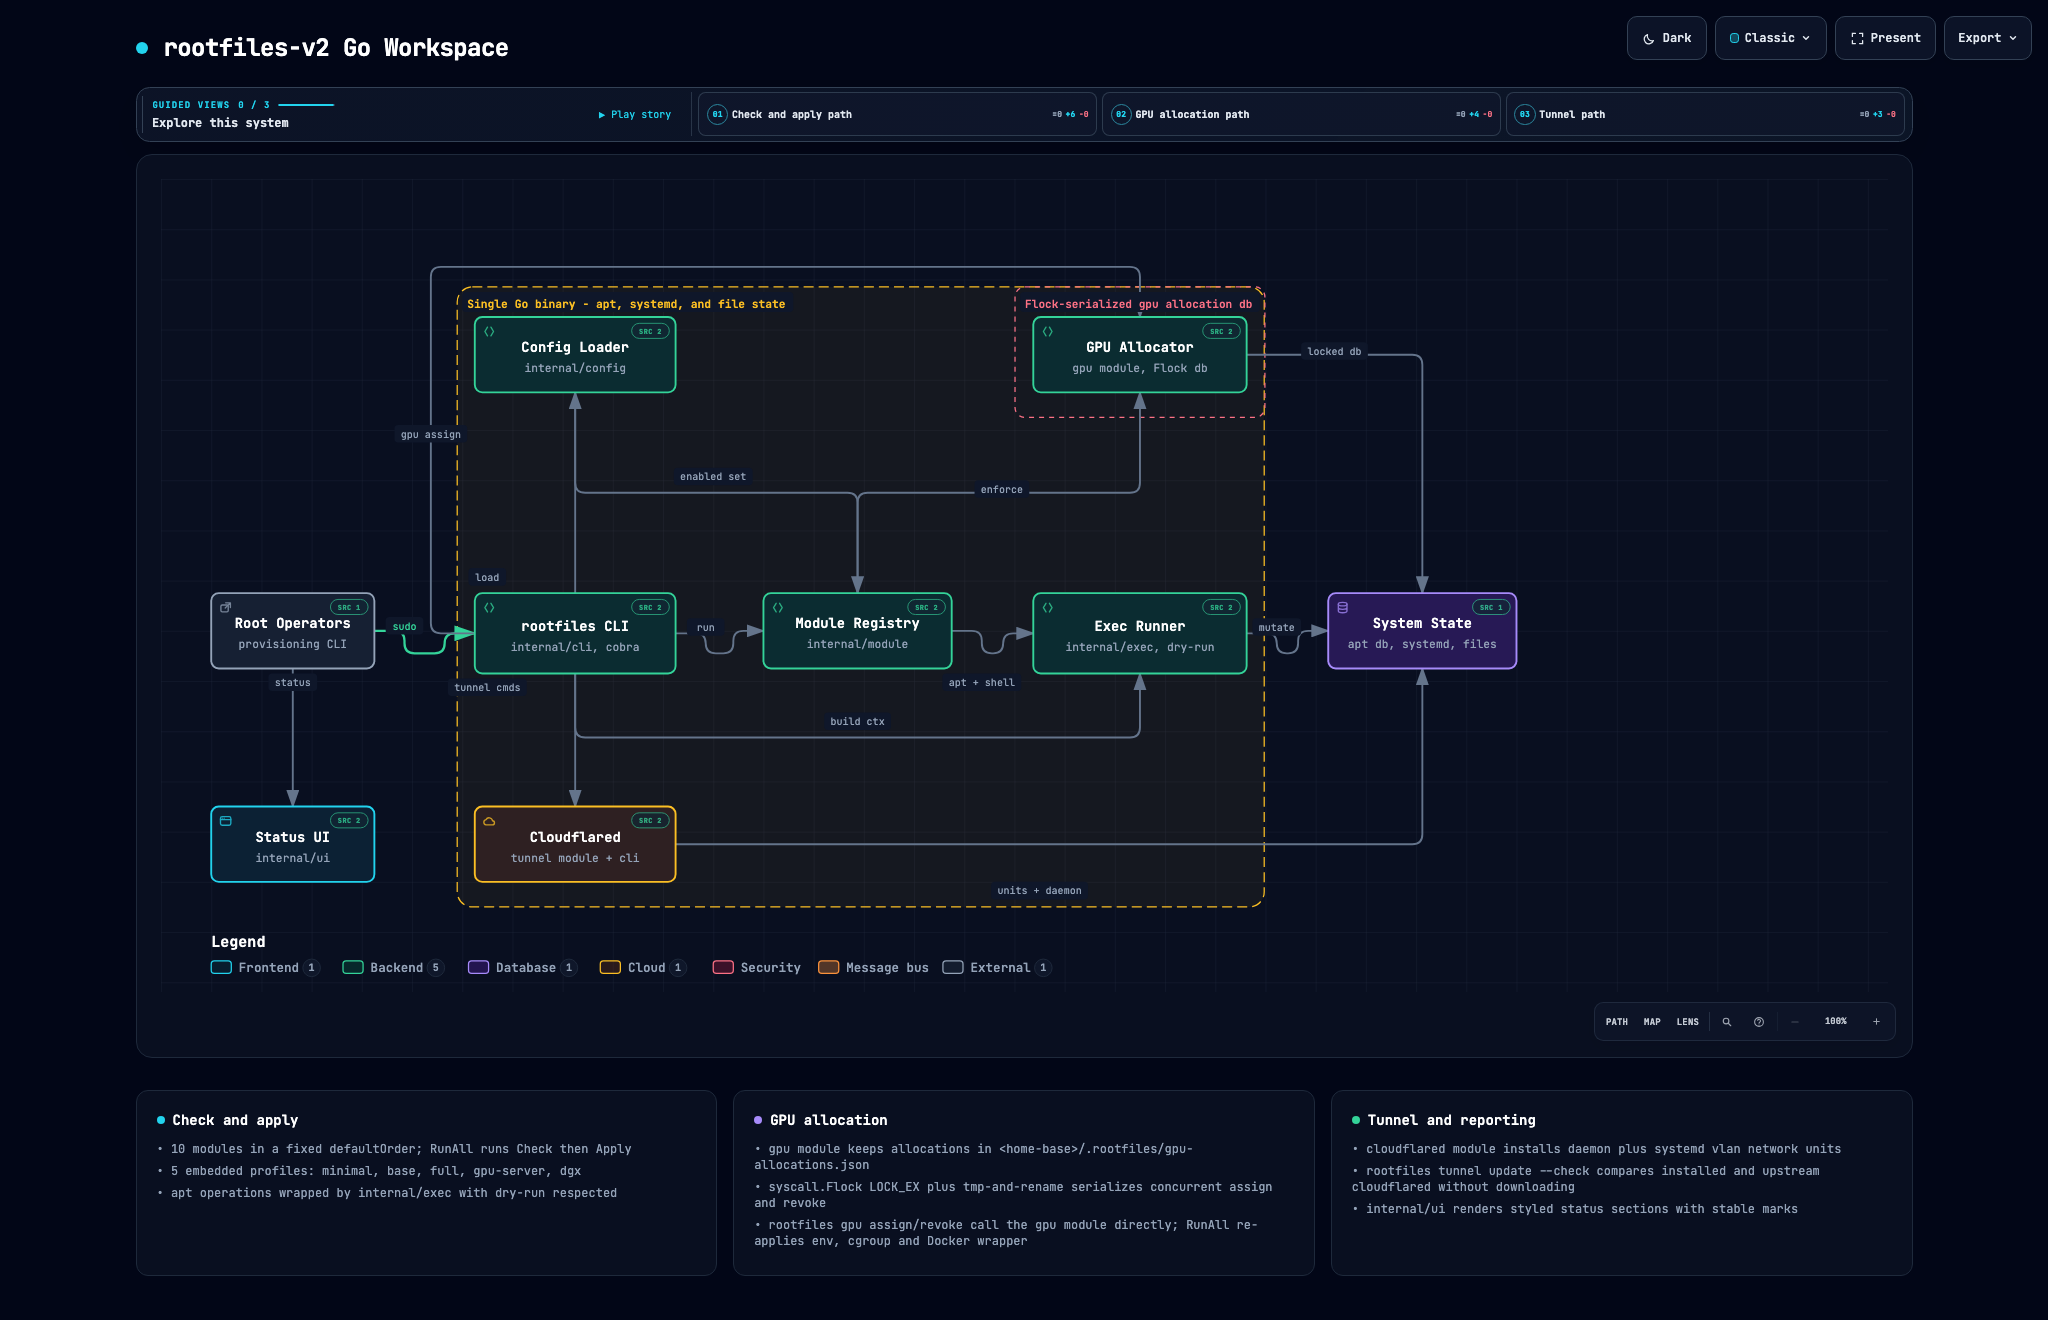
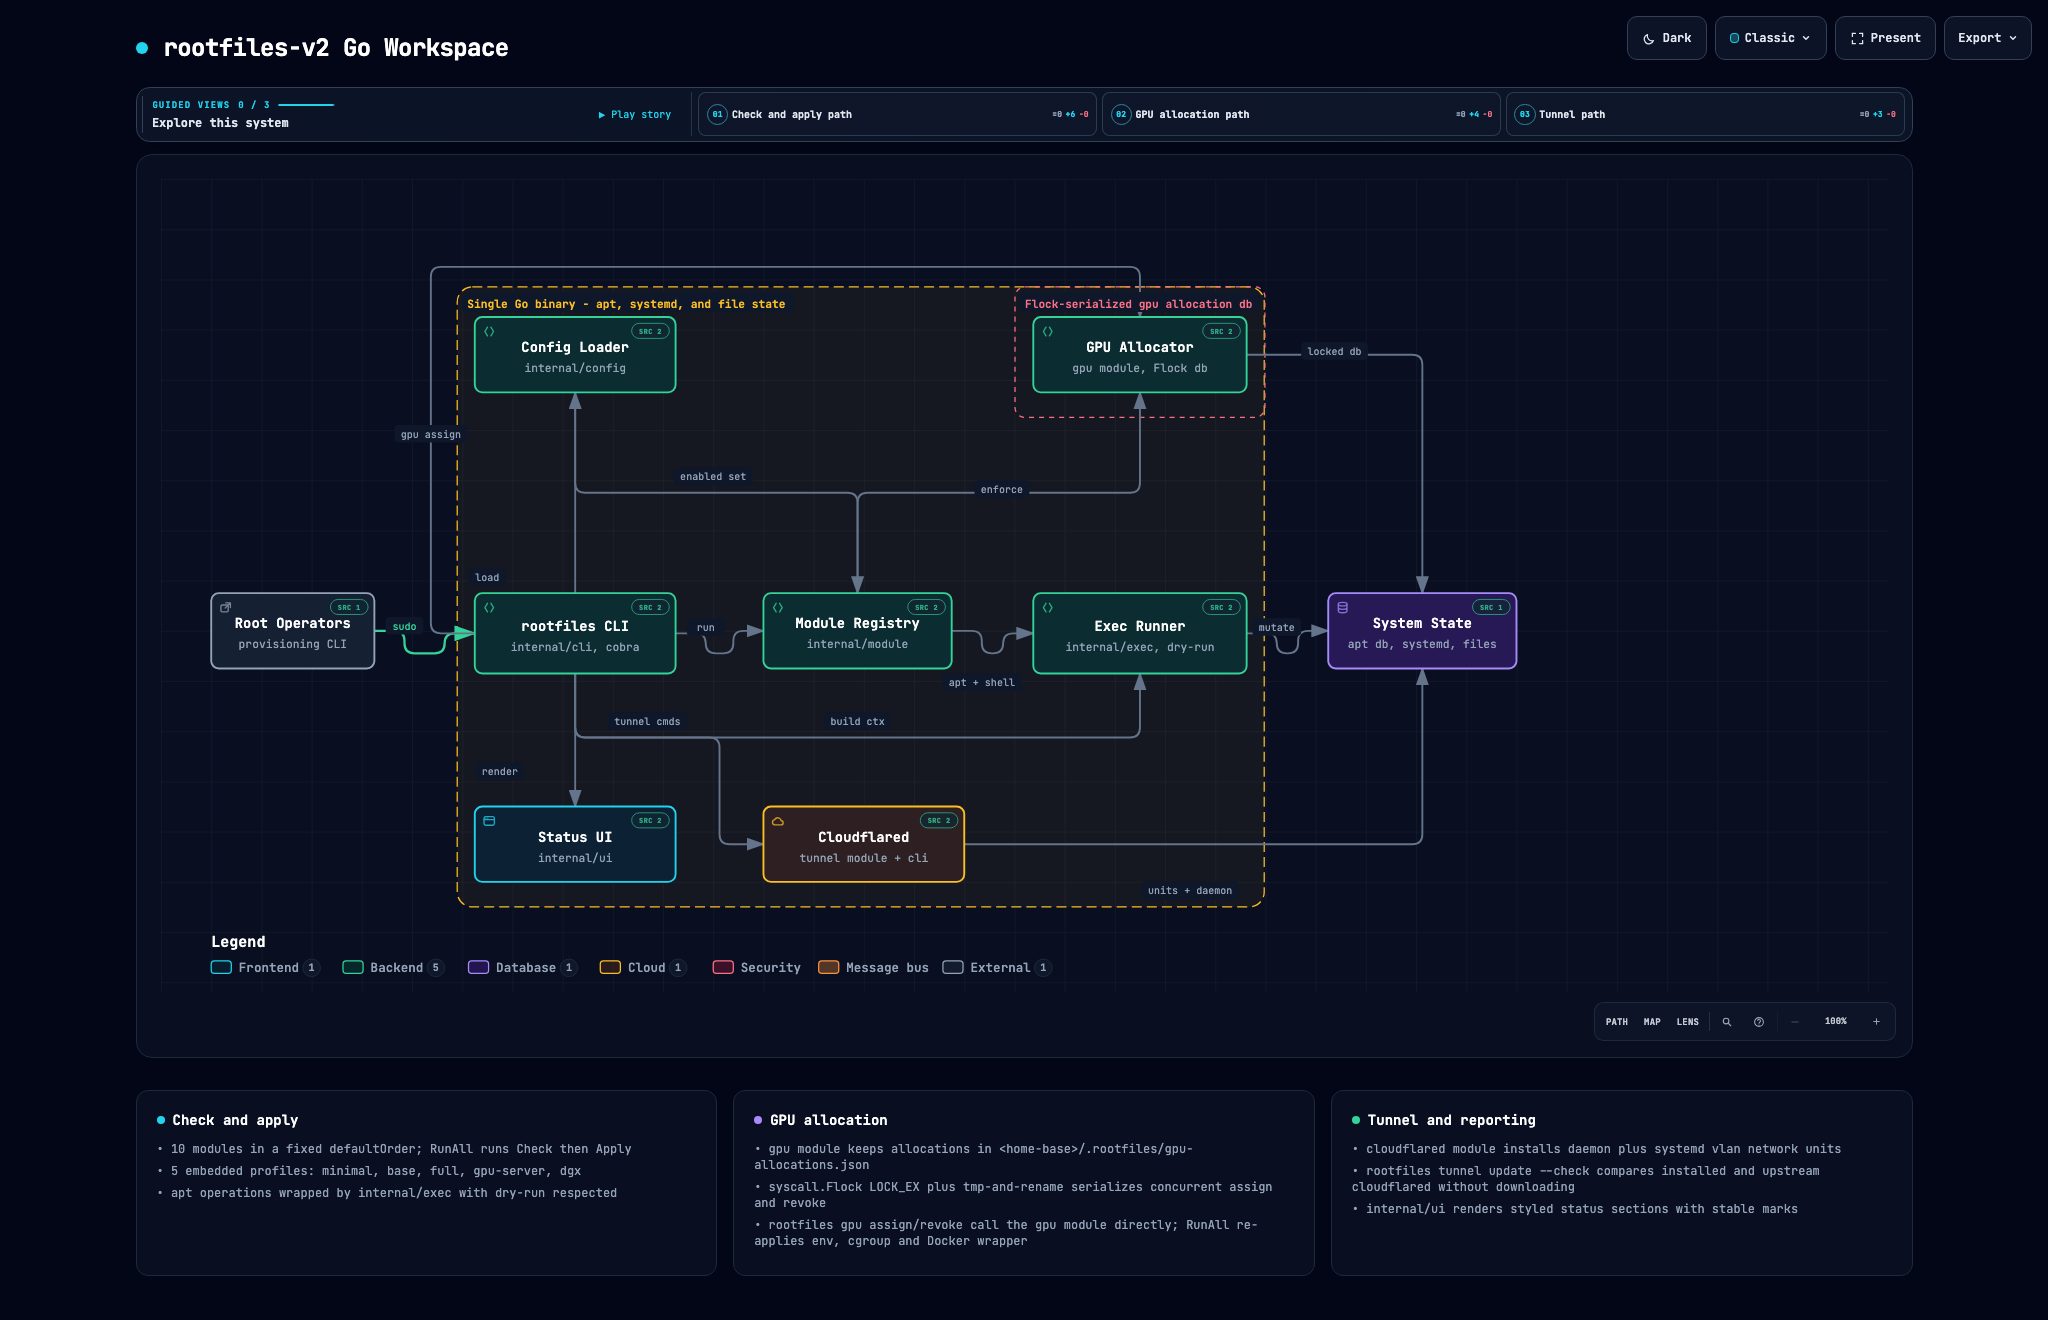
docs(archify): draw internal/ui inside the rootfiles binary
The Status UI component sat outside the "Single Go binary" region and
its only edge came from the external operator, which is not a real
call. internal/ui is compiled into the binary and called by the CLI,
so it now sits under the CLI inside the region with a cli -> ui
"render" edge. Cloudflared shifts right to make room.

Claude-Session: https://claude.ai/code/session_01Xu6ekcZdfAKRg7zXRYFjqw

Changed region(s): [[0.2188, 0.5902, 0.4688, 0.6833], [0.125, 0.5902, 0.1875, 0.6523]]

diff --git a/docs/architecture/rootfiles-v2-rendered.html b/docs/architecture/rootfiles-v2-rendered.html
@@ -5166,14 +5166,14 @@ OTHER DEALINGS IN THE FONT SOFTWARE.
         <path data-edge-from="config" data-edge-to="module" data-edge-label="enabled set" data-edge-key="2" data-edge-id="config-to-module" data-composition-points="330,170;330,250;555,250;555,330" d="M 330 170 L 330 242 Q 330 250 338 250 L 547 250 Q 555 250 555 258 L 555 330" class="a-default" stroke-width="1.5" marker-end="url(#arrowhead)"/>
         <path data-edge-from="cli" data-edge-to="module" data-edge-label="run" data-edge-key="3" data-edge-id="cli-to-module" data-composition-points="410,362;434,362;434,378;456,378;456,360;480,360" d="M 410 362 L 426 362 Q 434 362 434 370 L 434 370 Q 434 378 442 378 L 448 378 Q 456 378 456 370 L 456 368 Q 456 360 464 360 L 480 360" class="a-default" stroke-width="1.5" marker-end="url(#arrowhead)"/>
         <path data-edge-from="cli" data-edge-to="exec" data-edge-label="build ctx" data-edge-key="4" data-edge-id="cli-to-exec" data-composition-points="330,394;330,445;780,445;780,394" d="M 330 394 L 330 437 Q 330 445 338 445 L 772 445 Q 780 445 780 437 L 780 394" class="a-default" stroke-width="1.5" marker-end="url(#arrowhead)"/>
-        <path data-edge-from="cli" data-edge-to="tunnel" data-edge-label="tunnel cmds" data-edge-key="5" data-edge-id="cli-to-tunnel" data-composition-points="330,394;330,500" d="M 330 394 L 330 500" class="a-default" stroke-width="1.5" marker-end="url(#arrowhead)"/>
-        <path data-edge-from="tunnel" data-edge-to="fs" data-edge-label="units + daemon" data-edge-key="6" data-edge-id="tunnel-to-fs" data-composition-points="410,530;1005,530;1005,390" d="M 410 530 L 997 530 Q 1005 530 1005 522 L 1005 390" class="a-default" stroke-width="1.5" marker-end="url(#arrowhead)"/>
+        <path data-edge-from="cli" data-edge-to="tunnel" data-edge-label="tunnel cmds" data-edge-key="5" data-edge-id="cli-to-tunnel" data-composition-points="330,394;330,445;445,445;445,530;480,530" d="M 330 394 L 330 437 Q 330 445 338 445 L 437 445 Q 445 445 445 453 L 445 522 Q 445 530 453 530 L 480 530" class="a-default" stroke-width="1.5" marker-end="url(#arrowhead)"/>
+        <path data-edge-from="tunnel" data-edge-to="fs" data-edge-label="units + daemon" data-edge-key="6" data-edge-id="tunnel-to-fs" data-composition-points="640,530;1005,530;1005,390" d="M 640 530 L 997 530 Q 1005 530 1005 522 L 1005 390" class="a-default" stroke-width="1.5" marker-end="url(#arrowhead)"/>
         <path data-edge-from="module" data-edge-to="exec" data-edge-label="apt + shell" data-edge-key="7" data-edge-id="module-to-exec" data-composition-points="630,360;654,360;654,378;671,378;671,362;695,362" d="M 630 360 L 646 360 Q 654 360 654 368 L 654 370 Q 654 378 662 378 L 663 378 Q 671 378 671 370 L 671 370 Q 671 362 679 362 L 695 362" class="a-default" stroke-width="1.5" marker-end="url(#arrowhead)"/>
         <path data-edge-from="exec" data-edge-to="fs" data-edge-label="mutate" data-edge-key="8" data-edge-id="exec-to-fs" data-composition-points="865,362;889,362;889,378;906,378;906,360;930,360" d="M 865 362 L 881 362 Q 889 362 889 370 L 889 370 Q 889 378 897 378 L 898 378 Q 906 378 906 370 L 906 368 Q 906 360 914 360 L 930 360" class="a-default" stroke-width="1.5" marker-end="url(#arrowhead)"/>
         <path data-edge-from="module" data-edge-to="gpu" data-edge-label="enforce" data-edge-key="9" data-edge-id="module-to-gpu" data-composition-points="555,330;555,250;780,250;780,170" d="M 555 330 L 555 258 Q 555 250 563 250 L 772 250 Q 780 250 780 242 L 780 170" class="a-default" stroke-width="1.5" marker-end="url(#arrowhead)"/>
         <path data-edge-from="cli" data-edge-to="gpu" data-edge-label="gpu assign" data-edge-key="10" data-edge-id="cli-to-gpu" data-composition-points="250,362;215,362;215,70;780,70;780,110" d="M 250 362 L 223 362 Q 215 362 215 354 L 215 78 Q 215 70 223 70 L 772 70 Q 780 70 780 78 L 780 110" class="a-default" stroke-width="1.5" marker-end="url(#arrowhead)"/>
         <path data-edge-from="gpu" data-edge-to="fs" data-edge-label="locked db" data-edge-key="11" data-edge-id="gpu-to-fs" data-composition-points="865,140;1005,140;1005,330" d="M 865 140 L 997 140 Q 1005 140 1005 148 L 1005 330" class="a-default" stroke-width="1.5" marker-end="url(#arrowhead)"/>
-        <path data-edge-from="user" data-edge-to="ui" data-edge-label="status" data-edge-key="12" data-edge-id="user-to-ui" data-composition-points="105,390;105,500" d="M 105 390 L 105 500" class="a-default" stroke-width="1.5" marker-end="url(#arrowhead)"/>
+        <path data-edge-from="cli" data-edge-to="ui" data-edge-label="render" data-edge-key="12" data-edge-id="cli-to-ui" data-composition-points="330,394;330,500" d="M 330 394 L 330 500" class="a-default" stroke-width="1.5" marker-end="url(#arrowhead)"/>
 
         <!-- Components -->
         <g id="node-user" data-node-id="user" data-node-label="Root Operators" tabindex="0" role="button" aria-label="Focus Root Operators, provisioning CLI, Architecture component" aria-pressed="false" data-node-kind="external" data-node-sublabel="provisioning CLI" data-node-context="Architecture component">
@@ -5263,29 +5263,29 @@ OTHER DEALINGS IN THE FONT SOFTWARE.
 
         <g id="node-tunnel" data-node-id="tunnel" data-node-label="Cloudflared" tabindex="0" role="button" aria-label="Focus Cloudflared, tunnel module + cli, Single Go binary - apt, systemd, and file state" aria-pressed="false" data-node-kind="cloud" data-node-sublabel="tunnel module + cli" data-node-tag="systemd network" data-node-context="Single Go binary - apt, systemd, and file state">
           <title>Cloudflared · tunnel module + cli · Single Go binary - apt, systemd, and file state · systemd network</title>
-          <rect x="250" y="500" width="160" height="60" rx="6" class="c-mask"/>
-          <rect x="250" y="500" width="160" height="60" rx="6" class="c-cloud" stroke-width="1.5"/>
-          <g aria-hidden="true" data-semantic-sigil="cloud" class="semantic-sigil s-cloud" transform="translate(256 506) scale(0.6875)">
+          <rect x="480" y="500" width="160" height="60" rx="6" class="c-mask"/>
+          <rect x="480" y="500" width="160" height="60" rx="6" class="c-cloud" stroke-width="1.5"/>
+          <g aria-hidden="true" data-semantic-sigil="cloud" class="semantic-sigil s-cloud" transform="translate(486 506) scale(0.6875)">
             <path d="M4.3 12.5h7.3a2.4 2.4 0 0 0 .2-4.8 4 4 0 0 0-7.5-1.3A3.1 3.1 0 0 0 4.3 12.5Z"/>
           </g>
-          <text data-node-label="" data-detail-anchor="" x="330" y="528" class="t-primary" font-size="11" font-weight="600" text-anchor="middle">Cloudflared</text>
-        <text data-detail="context" x="330" y="544" class="t-muted" font-size="9" text-anchor="middle">tunnel module + cli</text>
-        <text data-detail="fine" x="330" y="552" class="t-cloud" font-size="7" text-anchor="middle">systemd network</text>
+          <text data-node-label="" data-detail-anchor="" x="560" y="528" class="t-primary" font-size="11" font-weight="600" text-anchor="middle">Cloudflared</text>
+        <text data-detail="context" x="560" y="544" class="t-muted" font-size="9" text-anchor="middle">tunnel module + cli</text>
+        <text data-detail="fine" x="560" y="552" class="t-cloud" font-size="7" text-anchor="middle">systemd network</text>
         </g>
 
-        <g id="node-ui" data-node-id="ui" data-node-label="Status UI" tabindex="0" role="button" aria-label="Focus Status UI, internal/ui, Architecture component" aria-pressed="false" data-node-kind="frontend" data-node-sublabel="internal/ui" data-node-tag="styled output" data-node-context="Architecture component">
-          <title>Status UI · internal/ui · Architecture component · styled output</title>
-          <rect x="40" y="500" width="130" height="60" rx="6" class="c-mask"/>
-          <rect x="40" y="500" width="130" height="60" rx="6" class="c-frontend" stroke-width="1.5"/>
-          <g aria-hidden="true" data-semantic-sigil="frontend" class="semantic-sigil s-frontend" transform="translate(46 506) scale(0.6875)">
+        <g id="node-ui" data-node-id="ui" data-node-label="Status UI" tabindex="0" role="button" aria-label="Focus Status UI, internal/ui, Single Go binary - apt, systemd, and file state" aria-pressed="false" data-node-kind="frontend" data-node-sublabel="internal/ui" data-node-tag="styled output" data-node-context="Single Go binary - apt, systemd, and file state">
+          <title>Status UI · internal/ui · Single Go binary - apt, systemd, and file state · styled output</title>
+          <rect x="250" y="500" width="160" height="60" rx="6" class="c-mask"/>
+          <rect x="250" y="500" width="160" height="60" rx="6" class="c-frontend" stroke-width="1.5"/>
+          <g aria-hidden="true" data-semantic-sigil="frontend" class="semantic-sigil s-frontend" transform="translate(256 506) scale(0.6875)">
             <rect x="2" y="3" width="12" height="10" rx="2"/>
             <path d="M2 6.5h12"/>
             <circle cx="4.1" cy="4.8" r=".7" class="sigil-fill"/>
             <circle cx="6.3" cy="4.8" r=".7" class="sigil-fill"/>
           </g>
-          <text data-node-label="" data-detail-anchor="" x="105" y="528" class="t-primary" font-size="11" font-weight="600" text-anchor="middle">Status UI</text>
-        <text data-detail="context" x="105" y="544" class="t-muted" font-size="9" text-anchor="middle">internal/ui</text>
-        <text data-detail="fine" x="105" y="552" class="t-frontend" font-size="7" text-anchor="middle">styled output</text>
+          <text data-node-label="" data-detail-anchor="" x="330" y="528" class="t-primary" font-size="11" font-weight="600" text-anchor="middle">Status UI</text>
+        <text data-detail="context" x="330" y="544" class="t-muted" font-size="9" text-anchor="middle">internal/ui</text>
+        <text data-detail="fine" x="330" y="552" class="t-frontend" font-size="7" text-anchor="middle">styled output</text>
         </g>
 
         <!-- Connection labels -->
@@ -5310,12 +5310,12 @@ OTHER DEALINGS IN THE FONT SOFTWARE.
           <text x="555" y="435" class="t-muted" font-size="8" text-anchor="middle">build ctx</text>
         </g>
         <g data-detail="context" data-edge-from="cli" data-edge-to="tunnel" data-edge-label="tunnel cmds" data-edge-key="5" data-edge-id="cli-to-tunnel">
-          <rect x="228.6" y="398" width="62.8" height="14" rx="3" class="c-mask"/>
-          <text x="260" y="408" class="t-muted" font-size="8" text-anchor="middle">tunnel cmds</text>
+          <rect x="356.1" y="425" width="62.8" height="14" rx="3" class="c-mask"/>
+          <text x="387.5" y="435" class="t-muted" font-size="8" text-anchor="middle">tunnel cmds</text>
         </g>
         <g data-detail="context" data-edge-from="tunnel" data-edge-to="fs" data-edge-label="units + daemon" data-edge-key="6" data-edge-id="tunnel-to-fs">
-          <rect x="661.4" y="560" width="77.2" height="14" rx="3" class="c-mask"/>
-          <text x="700" y="570" class="t-muted" font-size="8" text-anchor="middle">units + daemon</text>
+          <rect x="781.4" y="560" width="77.2" height="14" rx="3" class="c-mask"/>
+          <text x="820" y="570" class="t-muted" font-size="8" text-anchor="middle">units + daemon</text>
         </g>
         <g data-detail="context" data-edge-from="module" data-edge-to="exec" data-edge-label="apt + shell" data-edge-key="7" data-edge-id="module-to-exec">
           <rect x="622.6" y="394" width="62.8" height="14" rx="3" class="c-mask"/>
@@ -5337,9 +5337,9 @@ OTHER DEALINGS IN THE FONT SOFTWARE.
           <rect x="908.4" y="130" width="53.199999999999996" height="14" rx="3" class="c-mask"/>
           <text x="935" y="140" class="t-muted" font-size="8" text-anchor="middle">locked db</text>
         </g>
-        <g data-detail="context" data-edge-from="user" data-edge-to="ui" data-edge-label="status" data-edge-key="12" data-edge-id="user-to-ui">
-          <rect x="85.6" y="394" width="38.8" height="14" rx="3" class="c-mask"/>
-          <text x="105" y="404" class="t-muted" font-size="8" text-anchor="middle">status</text>
+        <g data-detail="context" data-edge-from="cli" data-edge-to="ui" data-edge-label="render" data-edge-key="12" data-edge-id="cli-to-ui">
+          <rect x="250.6" y="465" width="38.8" height="14" rx="3" class="c-mask"/>
+          <text x="270" y="475" class="t-muted" font-size="8" text-anchor="middle">render</text>
         </g>
 
         <!-- Boundary labels (foreground masks keep routes out of titles) -->
